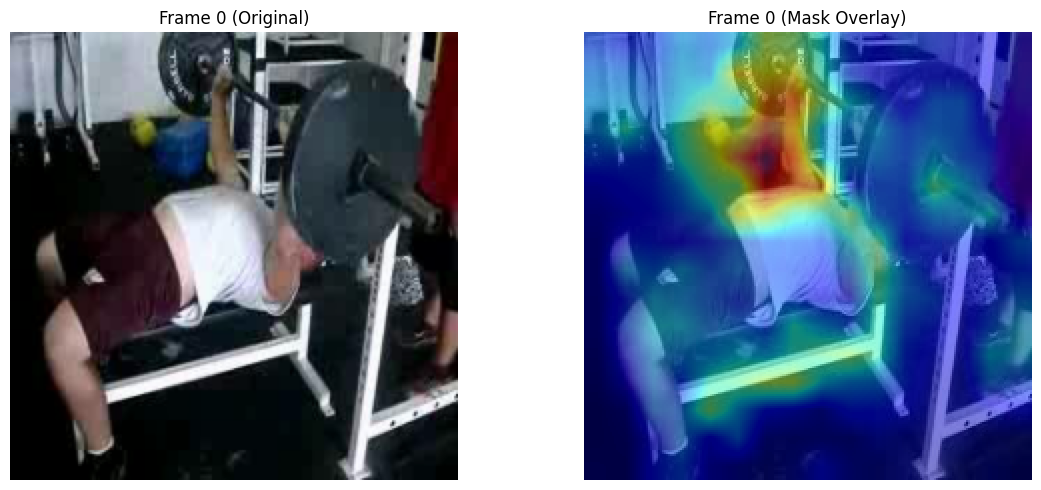
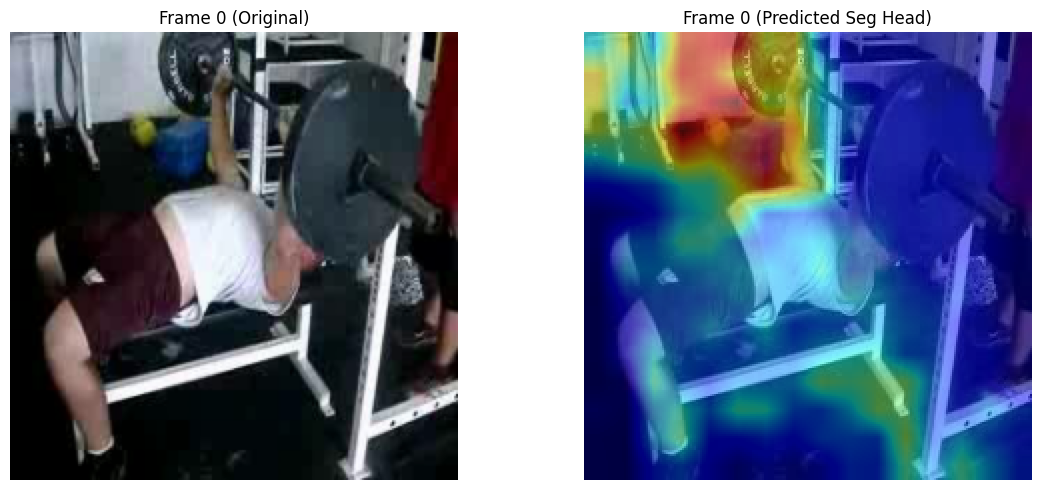
updates

Changed region(s): [[0.5533, 0.0, 1.0, 0.9796]]

diff --git a/DiffTrack/point_sampling/model_finetune.py b/DiffTrack/point_sampling/model_finetune.py
@@ -56,11 +56,16 @@ class DINOv2_LoRA(nn.Module):
         
 
 def get_robust_mask(flow, depth, threshold_multiplier=1.2, sigma=1.5):
-    #flow shape: [b, t, 2, h, w], depth shape: [b, t, 1, h, w]
+    #flow shape: [b, t, 2, h, w]
     b, t, _, h, w = flow.shape
     
-    #calculate motion magnitude
-    mag = torch.norm(flow, dim=2, keepdim=True) #[b, t, 1, h, w]
+    #find the median flow (the background speed) and subtract it
+    #flatten spatial dims, find median, reshape back for broadcasting
+    median_flow = flow.view(b, t, 2, -1).median(dim=3, keepdim=True)[0].view(b, t, 2, 1, 1)
+    relative_flow = flow - median_flow
+    
+    #calculate motion magnitude on the RELATIVE flow, not raw flow
+    mag = torch.norm(relative_flow, dim=2, keepdim=True) #[b, t, 1, h, w]
         
     #normalizing per frame- f_max: [b, t, 1, 1, 1]
     f_max = depth.flatten(2).max(dim=-1)[0].view(depth.shape[0], depth.shape[1], 1, 1, 1)
@@ -68,8 +73,6 @@ def get_robust_mask(flow, depth, threshold_multiplier=1.2, sigma=1.5):
     
     combined_score = mag * depth_norm
     
-    #this is perfectly fine for T=2 cross-video!
-    #dim=(3,4) calculates the threshold for Video A and Video B completely independently
     mean_score = combined_score.mean(dim=(3, 4), keepdim=True) 
     thresh = torch.clamp(mean_score * threshold_multiplier, min=0.01)
     

diff --git a/DiffTrack/point_sampling/train_new.py b/DiffTrack/point_sampling/train_new.py
@@ -138,7 +138,7 @@ def train():
         os.makedirs("test_models", exist_ok=True)
         checkpoint_path = os.path.join("test_models", f"newv2_lora_dino_epoch_{epoch}.pth")
         # Save checkpoint every 50th epoch (50, 100, ...)
-        if (epoch + 1) % 25 == 0:
+        if (epoch + 1) % 10 == 0:
             # safeguard for DataParallel saving
             save_state = model.module.state_dict() if num_gpus > 1 else model.state_dict()
             torch.save(save_state, checkpoint_path)

diff --git a/DiffTrack/point_sampling/finetune_dino_test.py b/DiffTrack/point_sampling/finetune_dino_test.py
@@ -7,7 +7,8 @@ from model_finetune import DINOv2_LoRA
 import matplotlib.pyplot as plt
 
 checkpoint_path = "test_models/newv2_lora_dino_epoch_24.pth" 
-video_path = "UCF_Rep/val/v_JumpRope_g25_c02.mp4" #pick a specific video to test
+# video_path = "UCF_Rep/val/v_JumpRope_g25_c02.mp4" #pick a specific video to test
+video_path = "vids_mp4/benchpress.mp4"
 device = torch.device("cuda" if torch.cuda.is_available() else "cpu")
 
 def visualize():
